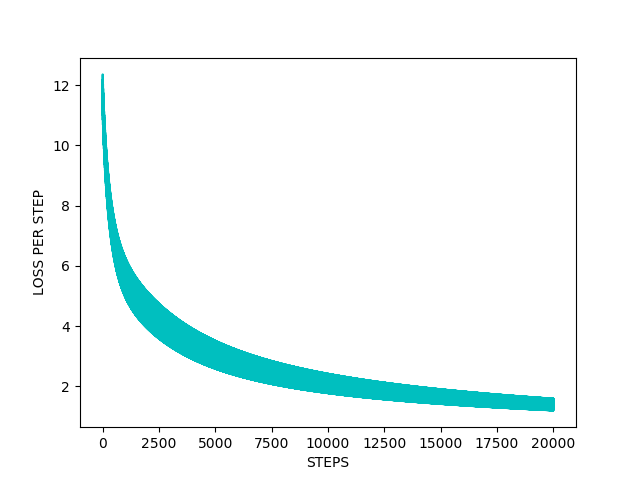
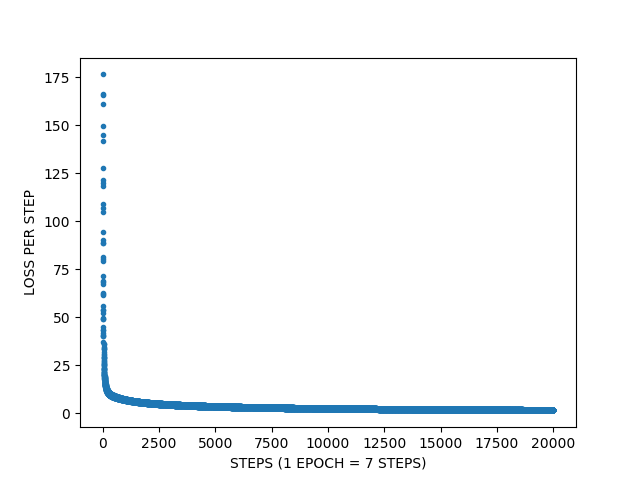
done with part 1

diff --git a/assignments/ass2/assignment2_all_parts.py b/assignments/ass2/assignment2_all_parts.py
@@ -37,8 +37,8 @@ def load_data():
 
 def calc_MSE(Y, X, W, b, wdc):
     hypothesis = tf.matmul(X,W) + b
-    Ld = 0.5 * tf.reduce_mean(
-                tf.square(hypothesis - Y))
+    Ld = tf.reduce_mean(tf.reduce_mean(
+                tf.square(hypothesis - Y), 1))
 
     Lw = (wdc / 2) * tf.reduce_sum(tf.square(W))
     return Lw + Ld
@@ -66,6 +66,11 @@ def linear_regression():
     iterations = 20000
     possibleRates = [0.005, 0.001, 0.0001]
 
+    indices = np.arange(0, sizeTrainData)
+    shuffledTrainingData = []
+    shuffledTrainingTarget = []
+
+
     #-----------------PART 1.1--------------------------------------------------
     print("\n-----PART 1.1-----\n\n")
     #variables specigic to PART 1.1:
@@ -84,6 +89,10 @@ def linear_regression():
         optimizer = tf.train.GradientDescentOptimizer(rate)
         train = optimizer.minimize(MSELoss)
 
+        np.random.shuffle(indices)
+        shuffledTrainingData = trainData[indices]
+        shuffledTrainingTarget = trainTarget[indices]
+
         numEpochs = 0
         for i in range(iterations):
             batchIndicator = (i % numB[0]) * possibleB[0]
@@ -91,20 +100,22 @@ def linear_regression():
             #since we want to consider epochs, we don't be taking random
             #indices rather, will be grabing batches of size B = 500, sliding
             #over the data set each iteration
-            currData, currTarget = trainData[batchIndicator:batchIndicator + possibleB[0]], \
-                                trainTarget[batchIndicator:batchIndicator + possibleB[0]]
+            #also shuffle it
+            currData, currTarget = shuffledTrainingData[batchIndicator:batchIndicator + possibleB[0]], \
+                                shuffledTrainingTarget[batchIndicator:batchIndicator + possibleB[0]]
 
             sess.run(train, feed_dict = {X: currData, Y: currTarget})
+
             lossPerIter[i] = sess.run(MSELoss, feed_dict = {X: currData, Y: currTarget})
 
             # print("Epoch:", numEpochs, "| Loss:", lossPerIter[i])
             # numEpochs += 1
         print("Epoch:", numEpochs, "| Loss:", lossPerIter[iterations - 1])
         #plot
-        steps = np.linspace(0, iterations, num=iterations)
+        steps = np.linspace(0, iterations, iterations)
         fig = plt.figure()
-        plt.plot(steps, lossPerIter, "c-")
-        plt.xlabel("STEPS")
+        plt.plot(steps, lossPerIter, '.')
+        plt.xlabel("STEPS (1 EPOCH = 7 STEPS)")
         plt.ylabel("LOSS PER STEP")
         fig.savefig(str(rate) + "_1_1.png")
 
@@ -131,6 +142,10 @@ def linear_regression():
         sess.run(tf.global_variables_initializer())
         MSELoss = calc_MSE(Y, X, W, b, possibleWdc[0])
 
+        np.random.shuffle(indices)
+        shuffledTrainingData = trainData[indices]
+        shuffledTrainingTarget = trainTarget[indices]
+
         start = timeit.timeit()
 
         optimizer = tf.train.GradientDescentOptimizer(optRate)
@@ -139,14 +154,15 @@ def linear_regression():
         for i in range(iterations):
             batchIndicator = (i % numB[batchSizeIndicator]) * sizeB
 
-            currData, currTarget = trainData[batchIndicator:batchIndicator + sizeB], \
-                                trainTarget[batchIndicator:batchIndicator + sizeB]
+            currData, currTarget = shuffledTrainingData[batchIndicator:batchIndicator + sizeB], \
+                                shuffledTrainingTarget[batchIndicator:batchIndicator + sizeB]
 
             sess.run(train, feed_dict = {X: currData, Y: currTarget})
 
         end = timeit.timeit()
         batchLosses[batchSizeIndicator] = sess.run(MSELoss, feed_dict = {X: currData, Y: currTarget})
         batchTime[batchSizeIndicator] = abs(end - start)
+
         batchSizeIndicator += 1
 
     print("The losses per batch size:" , \
@@ -154,11 +170,18 @@ def linear_regression():
         "Batch size", possibleB[1], ":", "Loss:", batchLosses[1], "|", \
         "Batch size", possibleB[2], ":", "Loss:", batchLosses[2])
 
-    print("\nBatch times as ratio of B = 500 time:", \
+    print("\nBatch times:", \
         "Batch size", possibleB[0], ":", "Time:", batchTime[0], "|", \
         "Batch size", possibleB[1], ":", "Time:", batchTime[1], "|", \
         "Batch size", possibleB[2], ":", "Time:", batchTime[2])
 
+    batchTime = [batchTime[0] / batchTime[0], \
+                    batchTime[1] / batchTime[0], \
+                    batchTime[2] / batchTime[0]]
+    print("\nBatch times as ratio B = 500:", \
+        "Batch size", possibleB[0], ":", "Time:", batchTime[0], "|", \
+        "Batch size", possibleB[1], ":", "Time:", batchTime[1], "|", \
+        "Batch size", possibleB[2], ":", "Time:", batchTime[2])
     #-----------------PART 1.3--------------------------------------------------
     print("\n\n\n\n-----PART 1.3-----\n\n")
     #variables specigic to PART 1.3:
@@ -176,17 +199,18 @@ def linear_regression():
 
         MSELoss = calc_MSE(Y, X, W, b, wdc)
 
+        np.random.shuffle(indices)
+        shuffledTrainingData = trainData[indices]
+        shuffledTrainingTarget = trainTarget[indices]
+
         optimizer = tf.train.GradientDescentOptimizer(possibleRates[0])
         train = optimizer.minimize(MSELoss)
 
         for i in range(iterations):
             batchIndicator = (i % numB[0]) * possibleB[0]
 
-            #since we want to consider epochs, we don't be taking random
-            #indices rather, will be grabing batches of size B = 500, sliding
-            #over the data set each iteration
-            currData, currTarget = trainData[batchIndicator:batchIndicator + possibleB[0]], \
-                                trainTarget[batchIndicator:batchIndicator + possibleB[0]]
+            currData, currTarget = shuffledTrainingData[batchIndicator:batchIndicator + possibleB[0]], \
+                                shuffledTrainingTarget[batchIndicator:batchIndicator + possibleB[0]]
 
             sess.run(train, feed_dict = {X: currData, Y: currTarget})
 
@@ -237,7 +261,7 @@ def linear_regression():
     MSELoss = calc_MSE(Y, X, WStar, b, wdc)
 
     finalMSE = sess.run(MSELoss, feed_dict = {X: trainData, Y: trainTarget})
-    time = abs(end-start) #/ batchTime[0]
+    time = abs(end-start) / batchTime[0]
     hypothesis = (tf.matmul(X, WStar) + b)
     classified = tf.to_float(tf.greater(hypothesis, 0.5))
     numCorrect = tf.reduce_sum(tf.to_float(tf.equal(tf.to_float(trainTarget), classified)))
